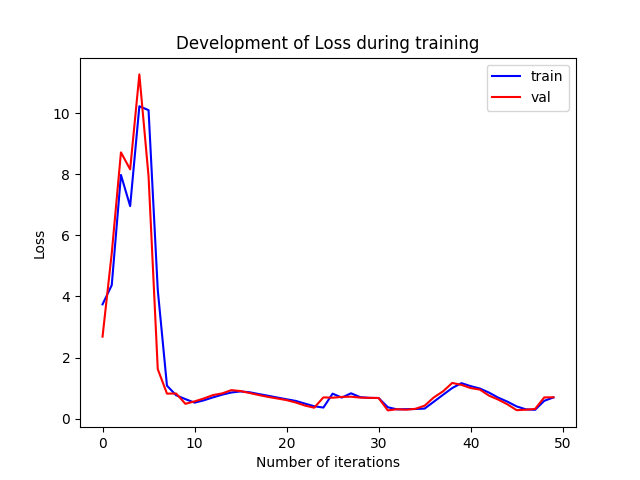
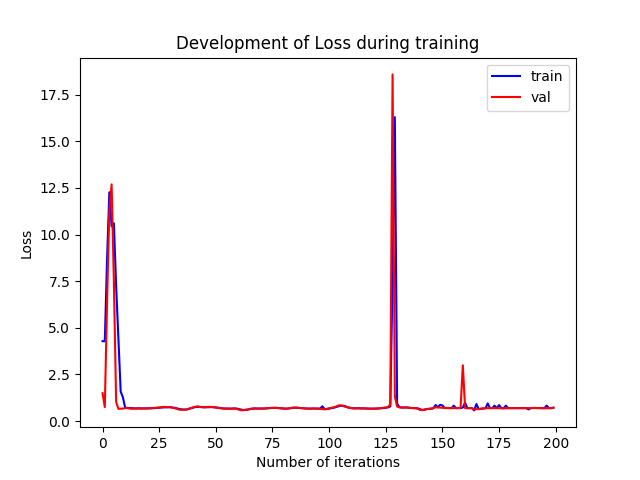
Added Dropout layer and training/test mode for model.

diff --git a/train.py b/train.py
@@ -1,7 +1,7 @@
 import numpy as np
 from src.tools import parse_args_train, load, make_learning_curves
 from src.nn_tools import seed_everything, init_weights, dataloader, clip_gradients
-from src.layers import Dense
+from src.layers import Dense, Dropout
 from src.losses import BinaryCrossEntropyLoss, CrossEntropyLoss
 from src.activations import ReLU, Tanh, Sigmoid, SoftMax
 from src.optimizers import SGD, Momentum, RMSProp, Adam
@@ -16,10 +16,13 @@ if __name__ == '__main__':
 
     model = Model()
     model.add_layer(Dense(X_train.shape[1], 100))
+    model.add_layer(Dropout(p=0.5))
     model.add_layer(ReLU())
     model.add_layer(Dense(100, 200))
+    model.add_layer(Dropout(p=0.5))
     model.add_layer(ReLU())
     model.add_layer(Dense(200, 50))
+    # model.add_layer(Dropout(p=0.5))
     model.add_layer(ReLU())
     model.add_layer(Dense(50, 2))
 
@@ -27,10 +30,10 @@ if __name__ == '__main__':
 
     criterion = CrossEntropyLoss()
     optimizer = Momentum(model.params, 1e-4)
-    # optimizer = Adam(model.params, 1e-6)
+    # optimizer = RMSProp(model.params, 1e-5)
+
     train_acc_by_epoch = []
     val_acc_by_epoch = []
-
     train_loss_by_epoch = []
     val_loss_by_epoch = []
 
@@ -40,9 +43,10 @@ if __name__ == '__main__':
         train_acc_by_batch = []
         val_acc_by_batch = []
 
+        model.train_mode()
         for x_batch, y_batch in dataloader(X_train.to_numpy(), y_train.to_numpy(), batchsize=args['batchsize'],
                                            shuffle=True):
-            preds = model.forward(x_batch, mode='train')
+            preds = model.forward(x_batch)
             loss = criterion(y_batch, preds)
             acc = np.mean(np.argmax(preds, axis=1) == y_batch)
             train_loss_by_batch.append(loss)
@@ -52,6 +56,7 @@ if __name__ == '__main__':
             optimizer.step(epoch + 1)
             model.clear_cache()
 
+        model.test_mode()
         for x_batch_val, y_batch_val in dataloader(X_val.to_numpy(), y_val.to_numpy(), batchsize=args['batchsize'],
                                            shuffle=True):
             preds = model.forward(x_batch_val)
@@ -73,5 +78,6 @@ if __name__ == '__main__':
 
     make_learning_curves(train_loss_by_epoch, val_loss_by_epoch, name='loss')
     make_learning_curves(train_acc_by_epoch, val_acc_by_epoch, name='accuracy')
-    print(f'Best max val accuracy - {max(val_acc_by_epoch)}')
+    print(f'Best max val accuracy - {max(val_acc_by_epoch)} '
+          f'on iteration {val_acc_by_epoch.index(max(val_acc_by_epoch)) + 1}')
     print('Training finished.')

diff --git a/src/layers.py b/src/layers.py
@@ -20,11 +20,8 @@ class Layer:
         d loss / dx  = (d loss / d layer) * (d layer / dx)
         Luckily, we already receive d loss / d layer as input, so you only need to multiply it by d layer / d x.
         If our layer has parameters (e.g. dense layer), we also need to update them here using d loss / d layer
-        The gradient of a dummy layer is precisely grad_output, but we'll write it more explicitly
         """
-        num_units = input.shape[1]
-        d_layer_d_input = np.eye(num_units)
-        return np.dot(grad_output, d_layer_d_input)
+        raise NotImplementedError
 
 
 class Dense(Layer):
@@ -53,4 +50,22 @@ class Dense(Layer):
         assert self.weights_grad.shape == self.weights.shape and self.biases_grad.shape == self.biases.shape
         return grad_input
 
-# TODO : добавить сверточный слой, MaxPooling, Dropout, BatchNorm
+
+class Dropout(Layer):
+    """
+    "Dropout:  A Simple Way to Prevent Neural Networks from Overfitting"
+    https://www.cs.toronto.edu/~hinton/absps/JMLRdropout.pdf
+    """
+    def __init__(self, p=0.5):
+        super().__init__()
+        self.p = p
+        self.mask = None
+
+    def forward(self, input: np.ndarray) -> np.ndarray:
+        self.mask = np.random.binomial(1, self.p, input.shape) / self.p
+        return input * self.mask
+
+    def backward(self, input: np.ndarray, grad_output: np.ndarray) -> np.ndarray:
+        return grad_output * self.mask
+
+# TODO : добавить сверточный слой, MaxPooling, BatchNorm

diff --git a/src/model.py b/src/model.py
@@ -1,12 +1,14 @@
 import gc
 import numpy as np
 from src.tools import save, load
+from src.layers import Dropout
 
 
 class Model:
     def __init__(self):
         self.network = []
         self.forward_list = []
+        self.trainable = True
 
     def __len__(self):
         return len(self.network)
@@ -15,16 +17,25 @@ class Model:
     def params(self):
         return [i for i in self.network if i.require_grad is True]
 
+    def train_mode(self):
+        self.trainable = True
+
+    def test_mode(self):
+        self.trainable = False
+
     def add_layer(self, layer):
         self.network.append(layer)
 
-    def forward(self, input: np.ndarray, mode='test', collect_garbage=False):
+    def forward(self, input: np.ndarray, collect_garbage=False):
         self.forward_list.append(input)
         for layer in self.network:
+            if isinstance(layer, Dropout) and not self.trainable:
+                continue
             self.forward_list.append(layer.forward(self.forward_list[-1]))
-        assert len(self.forward_list) == len(self.network) + 1
+        if self.trainable:
+            assert len(self.forward_list) == len(self.network) + 1
         pred = self.forward_list[-1]
-        if mode == 'test':
+        if not self.trainable:
             self.clear_cache(collect_garbage)
         return pred
 

diff --git a/src/optimizers.py b/src/optimizers.py
@@ -19,8 +19,8 @@ class SGD(Optimizer):
 
     def step(self, iter_num):
         for layer in self.model_params:
-            layer.weights += self.learning_rate * (layer.weights_grad + self.weight_decay * layer.weights)
-            layer.biases += self.learning_rate * (layer.biases_grad + self.weight_decay * layer.biases)
+            layer.weights += self.learning_rate * layer.weights_grad + self.weight_decay * layer.weights
+            layer.biases += self.learning_rate * layer.biases_grad + self.weight_decay * layer.biases
 
 
 class Momentum(Optimizer):
@@ -65,10 +65,10 @@ class RMSProp(Optimizer):
 
 
 class Adam(Optimizer):
-    '''
-    "ADAM: A METHOD  FOR STOCHASTIC OPTIMIZATION"
+    """
+    "ADAM: A METHOD FOR STOCHASTIC OPTIMIZATION"
     https://arxiv.org/pdf/1412.6980.pdf
-    '''
+    """
     def __init__(self, params, learning_rate, betas=(0.9, 0.999), eps=1e-8):
         super().__init__(params, learning_rate)
         self.model_params = params

diff --git a/src/tools.py b/src/tools.py
@@ -114,7 +114,7 @@ def parse_args_train() -> dict:
     parser = argparse.ArgumentParser()
     parser.add_argument('--save_model_path', default='tmp/model.pkl')
     parser.add_argument('--seed', default=42)
-    parser.add_argument('--epochs', default=50)
+    parser.add_argument('--epochs', default=200)
     parser.add_argument('--batchsize', default=32)
     args = parser.parse_args()
     return args.__dict__
